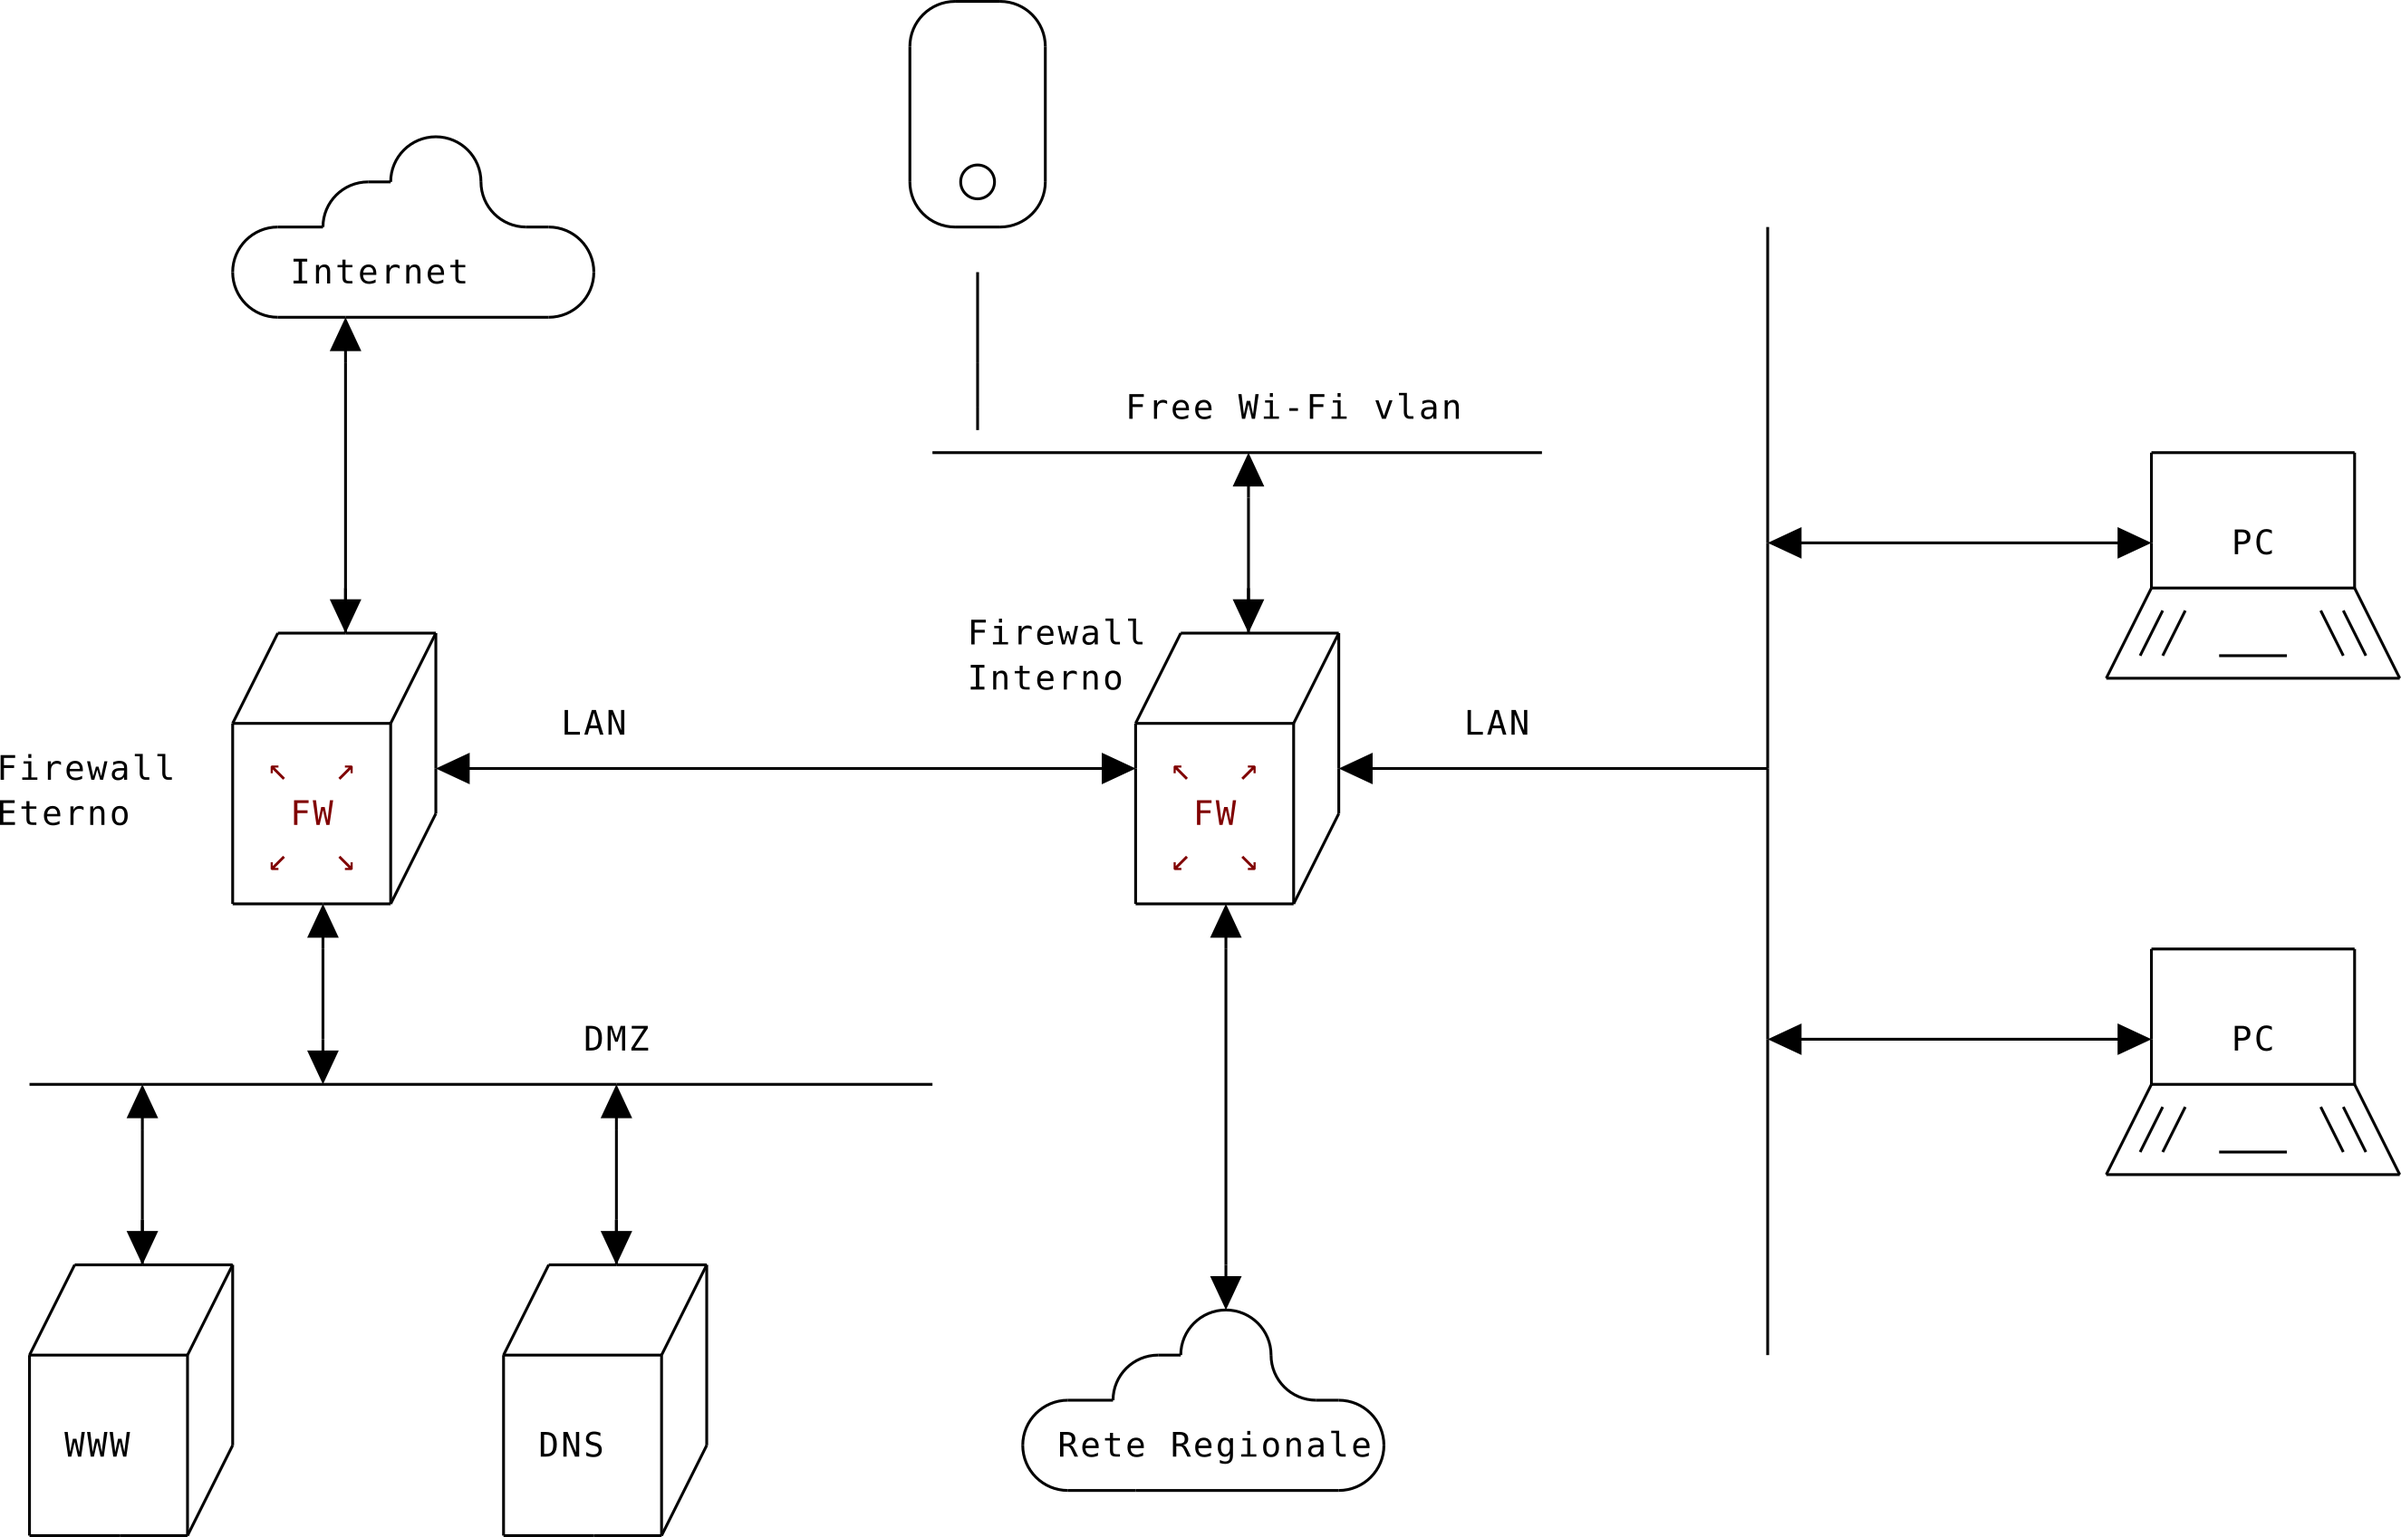
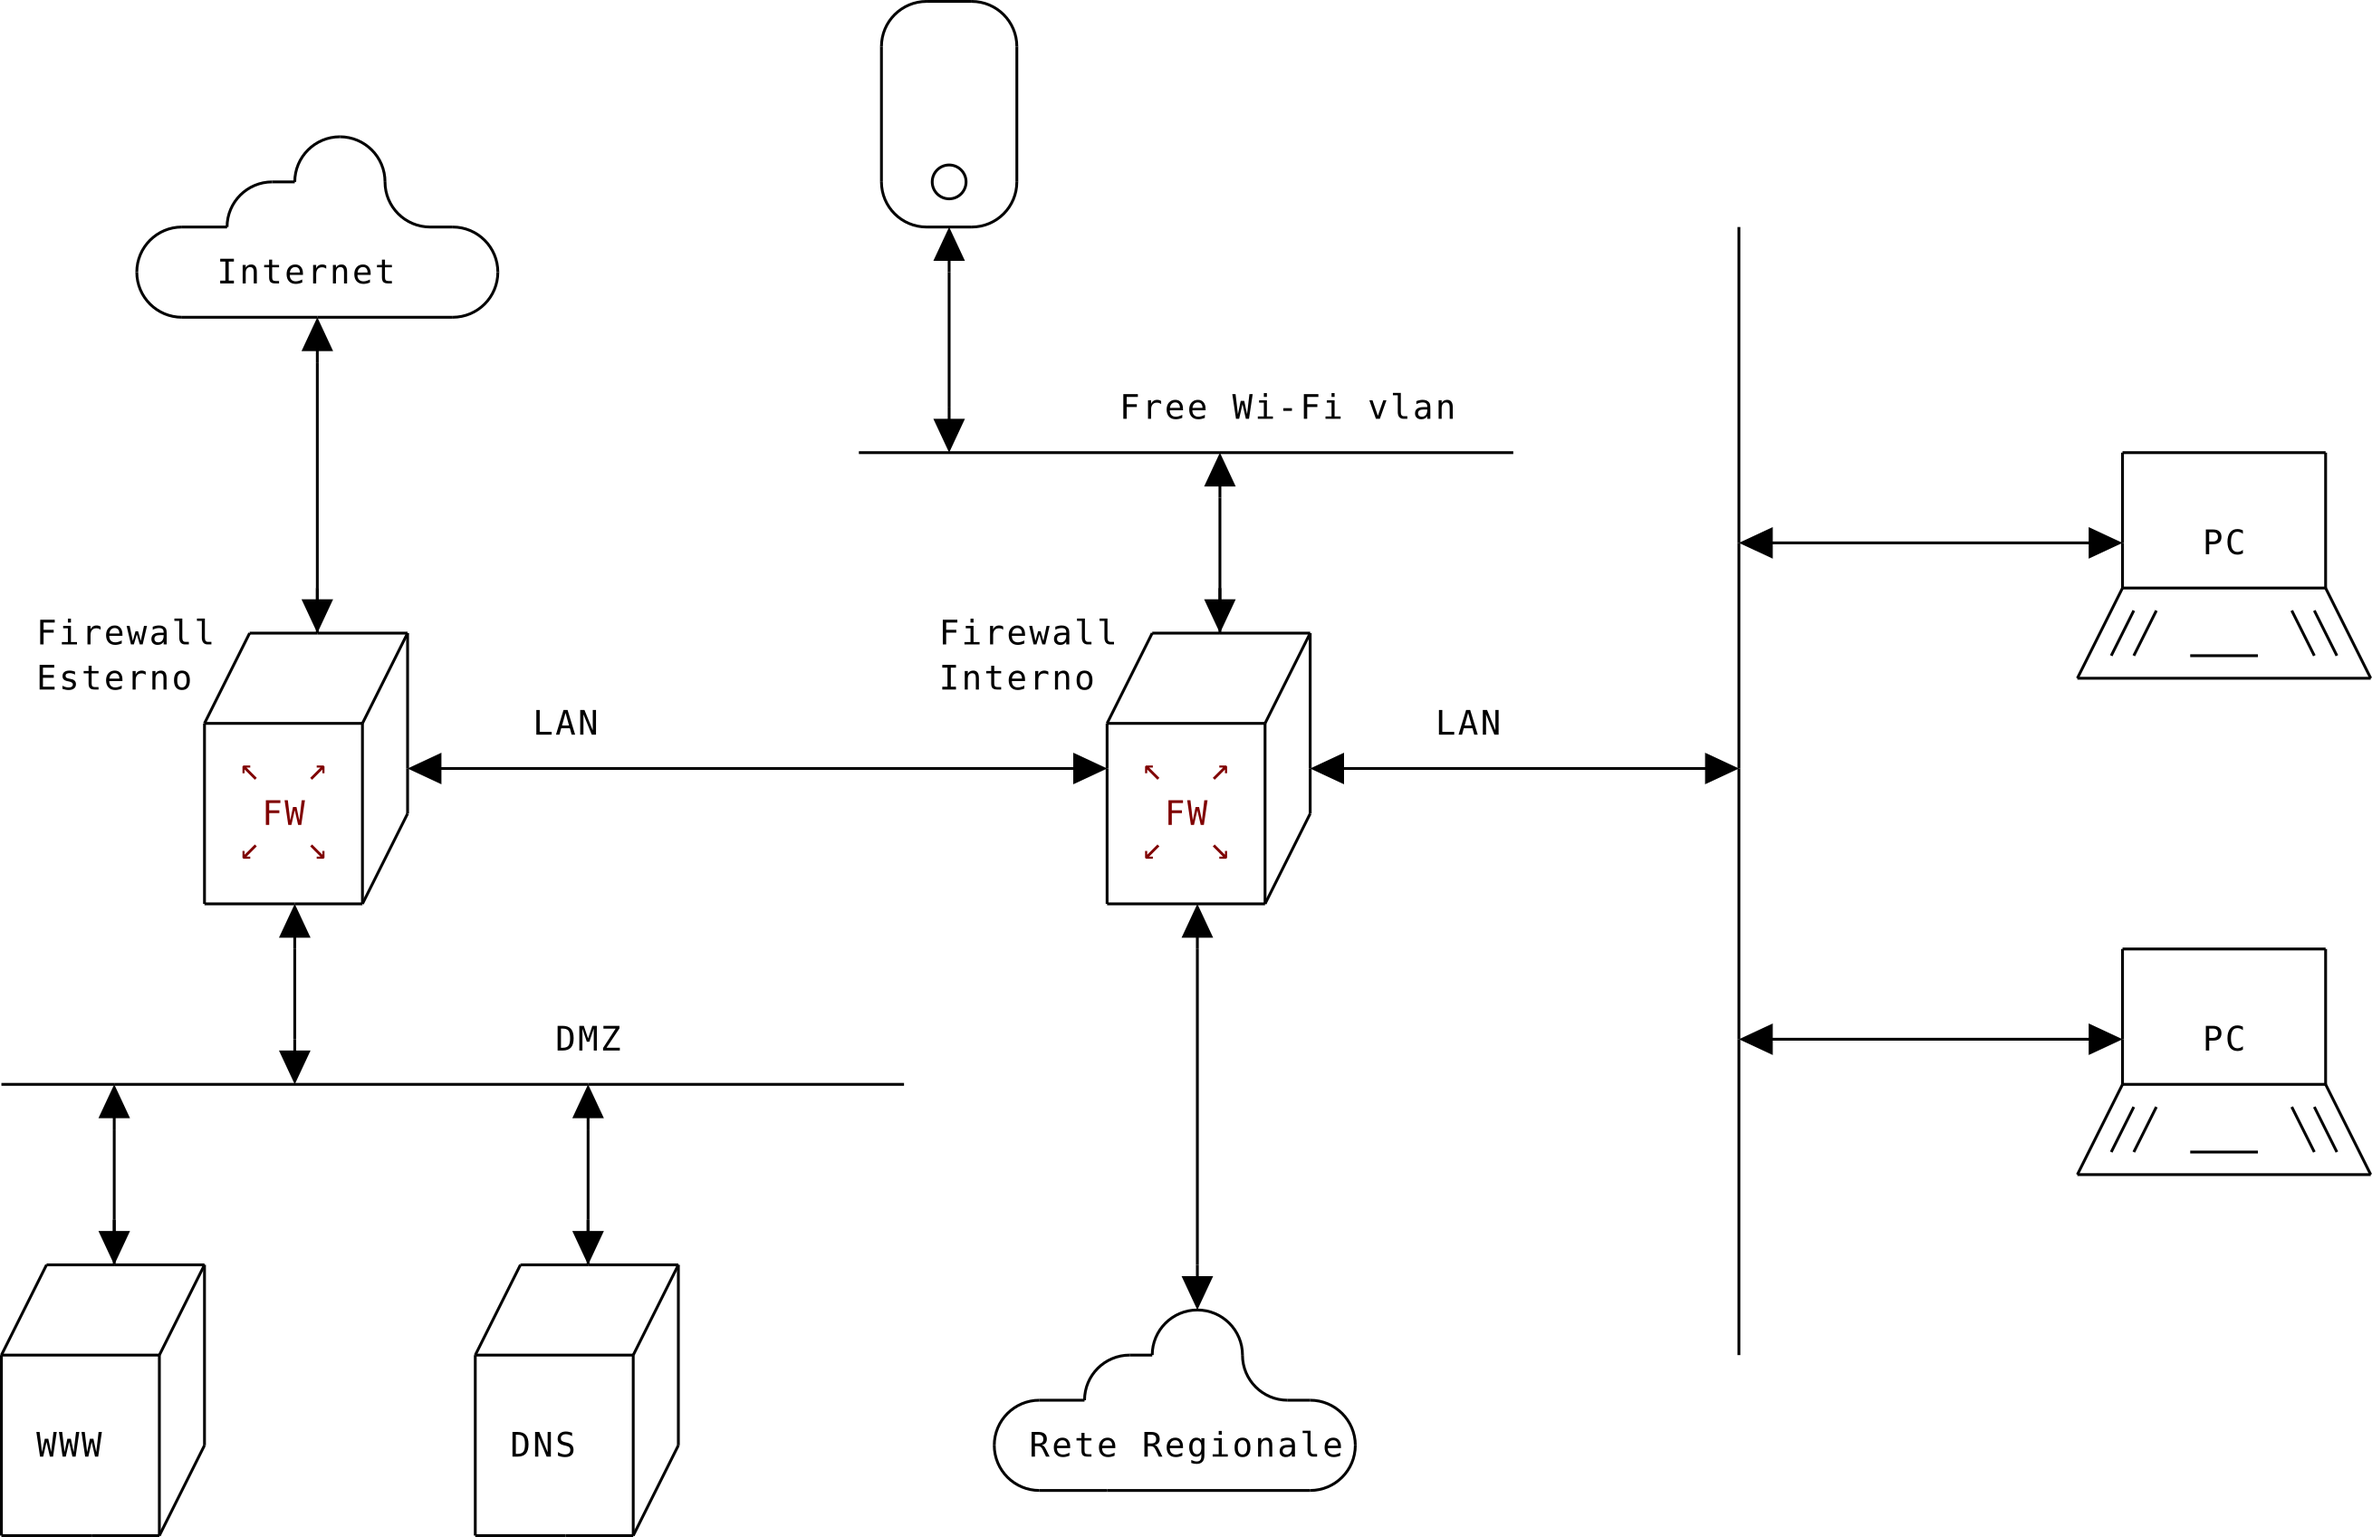
Foo

diff --git a/tesi.tex b/tesi.tex
@@ -211,14 +211,13 @@ carenze di iptables.
 
 \begin{figure}[H]
 \begin{center}
-      \includegraphics[width=\linewidth]{Netfilter-components.svg.png}
-      \caption[Componenti di Netfilter]{Componenti di Netfilter:\footnotemark}
-      \label{fig:netfilter}
+    \includegraphics[width=\linewidth]{Netfilter-components.svg.png}
+    \caption[Componenti di Netfilter]{Componenti di Netfilter:\footnotemark}
+    \label{fig:netfilter}
 \end{center}
 \end{figure}
-\footnotetext{\href{http://inai.de/images/nf-components.svg}{Sorgente} (CC BY-SA 3.0).}
-
 Dalla figura \ref{fig:netfilter} risulta evidente la maggiore complessità e
+\footnotetext{\href{http://inai.de/images/nf-components.svg}{Sorgente} (CC BY-SA 3.0).}%
 ridondanza di Xtables rispetto a nftables.  Nftables riduce il numero di linee
 di codice nel kernel riorganizzando e unificando quello che in iptables è
 replicato per i diversi protocolli.  Inoltre nftables introduce strutture
@@ -260,14 +259,14 @@ Nel tempo è cresciuto il numero di sottoreti collegate, di servizi esposti e
 di conseguenza la complessità delle regole configurate.
 
 La situazione attuale consiste di due firewall Linux, uno esterno ed uno
-interno.  Il firewall esterno regola il traffico tra internet, DMZ e
-reti locali; quello interno regole il traffico tra le reti locali e l'esterno.
+interno.  Il firewall esterno regola il traffico tra internet, DMZ e reti
+locali; quello interno regole il traffico tra le reti locali e l'esterno.
 
 \begin{figure}
 \begin{center}
-      \includegraphics[width=.8\linewidth]{net.svg.png}
-      \caption{Schema delle reti e dei due firewall}
-      \label{fig:rete}
+    \includegraphics[width=\linewidth]{net.svg.png}
+    \caption{Schema (semplificato) delle reti e dei due firewall}
+    \label{fig:rete}
 \end{center}
 \end{figure}
 In particolare sul firewall esterno sono presenti regole di tipo blacklist per
@@ -301,9 +300,10 @@ il pacchetto resta inalterato.} e successivamente una regola nella catena di
 inoltro devia il pacchetto verso il sito del Captive Portal che propone la
 registrazione.
 Abbiamo quasi 100 nuove registrazioni al giorno e sono 100.000 i dispositivi
-che hanno usufruito del servizio a partire dal 2012.
-Non avendo specificato termini di scadenza la lista di mac address non
-decresce mai, ad esempio al momento sono presenti oltre 23 mila indirizzi ethernet.
+che hanno usufruito del servizio a partire dal 2012.  Non avendo specificato
+termini di scadenza la lista di mac address non decresce mai, ad esempio al
+momento sono presenti oltre 23 mila indirizzi ethernet.  Di tanto in tanto si
+eseguono interventi di cancellazione delle autorizzazioni pi\`u vecchie.
 
 \section{Problemi dell'infrastruttura}
 
@@ -312,7 +312,7 @@ indirizzi e le perché proprio la gestione di così tante regole ha, durante il
 2017, portato alla luce alcune carenze della soluzione implementata.
 
 Inizialmente, infatti, per ogni indirizzo era prevista una regola\footnote{Di
-tipo {\em REJECT} per le blacklist e di tipo {\em RETURN} per la gestione del
+tipo {\em REJECT} per le blacklist e di tipo {\em RETURN} per la gestione della rete
 wifi free.}, ciò significa che prima di poter classificare ogni singolo
 pacchetto \`e necessario scorrere una per una migliaia se non decine di
 migliaia di regole (ovviamente non subiscono questa verifica i pacchetti
@@ -399,47 +399,19 @@ ip saddr @testsources nftrace set 1 comment "DEBUG: XXX remove in production"
     \caption{Schema del flusso di pacchetti in ftables}
     \label{fig:flow}
 \end{figure}
-
-%\begin{Verbatim}[fontsize=\scriptsize, fontseries=b, fontfamily=courier, samepage=false]
-%    {NETWORK}
-%        |
-%        |
-%        v                   
-%    (ingress)               .----> <Local Process> ----.
-%        |                   |                          |
-%        |                   |                          |
-%        |                   |                          |
-%   (prerouting)             |                          |
-%        |                   |                          |
-%        |                   |                          |
-%        v                   |                          v
-%[Routing Decision] ----> (input)                   (output) ----> [Routing Decision]
-%        |                                                                 |
-%        |                                                                 |
-%        |                                               .-----------------'
-%        |                                               |
-%        |                                               v
-%        '------------------------> (forward) ----> (postrouting)
-%                                                        |
-%                                                        |
-%                                                        |
-%                                                        v
-%                                                    {NETWORK}
-%\end{Verbatim}
-
 Lo schema rappresenta i possibili percorsi di un pacchetto: l'asterisco
 evidenzia gli hook ai quali si possono associare le catene contenenti le
 regole:
 \begin{itemize}
-  \item ingress
-  \item prerouting
-  \item input
-  \item output
-  \item forwarding
-  \item output
-  \item postrouting
+    \item ingress
+    \item prerouting
+    \item input
+    \item output
+    \item forwarding
+    \item output
+    \item postrouting
 \end{itemize}
-\noindent La possibilit\`a di intervenire precocemente sul pacchetto, appena
+La possibilit\`a di intervenire precocemente sul pacchetto, appena
 il driver dell scheda di rete lo passa al livello superiore, \`e fondamentale
 per gestire attacchi tipo DDoS o comunque per scartare traffico non gradito
 senza appesantire il lavoro del kernel: questo \`e reso possibile dall'hook
@@ -515,12 +487,11 @@ Il tracing viene attivato impostando una metainformazione relativa al pacchetto:
 Dal momento che transita dalla catena di forward, ogni pacchetto destinato ad un DNS server riporter\`a
  i dettagli del suo percorso attraverso l'insieme di regole.
 Per osservare il resoconto del viaggio del pacchetto \`e necessario attivare il
-monitor da console e rimanere in ascolto:
-\begin{lstlisting}[style=customb]
-# nft monitor
-\end{lstlisting}
+monitor da console: i pacchetti con nftrace settato invieranno al monitor le informazioni
+con tutti i dettagli relativi al percorso seguito.
 Questo ad esempio \`e il percorso di un pacchetto destinato ad un DNS server:
 \begin{lstlisting}[style=customb]
+# nft monitor
 trace id e7d627c0 ip captive forward packet: iif "eth1" oif "eth0" \
       ether saddr 00:16:3e:05:12:55 ether daddr 00:16:3e:35:e7:80 \
       ip saddr 193.168.100.159 ip daddr 8.8.8.8 \
@@ -532,25 +503,6 @@ trace id e7d627c0 ip captive forward verdict continue
 trace id e7d627c0 ip captive forward
 trace id e7d627c0 ip captive nat_postrouting verdict continue
 trace id e7d627c0 ip captive nat_postrouting
-\end{lstlisting}
-Per osservare il resoconto del viaggio del pacchetto \`e necessario attivare il
-monitor da console e rimanere in ascolto:
-\begin{lstlisting}[style=customb]
-# nft monitor
-nft --debug=netlink add rule ip foo bar ct state new \
- ip saddr 192.168.0.0-192.168.0.13 tcp dport 22 accept
- ip foo bar
- [ ct load state => reg 1 ]
- [ bitwise reg 1 = (reg=1 & 0x00000008 ) ^ 0x00000000 ]
- [ cmp neq reg 1 0x00000000 ]
- [ payload load 4b @ network header + 12 => reg 1 ]
- [ cmp gte reg 1 0x0000a8c0 ]
- [ cmp lte reg 1 0x0d00a8c0 ]
- [ payload load 1b @ network header + 9 => reg 1 ]
- [ cmp eq reg 1 0x00000006 ]
- [ payload load 2b @ transport header + 2 => reg 1 ]
- [ cmp eq reg 1 0x00001600 ]
- [ immediate reg 0 accept ]
 \end{lstlisting}
 \chapter{Migrazione del Captive Portal}
 
@@ -637,10 +589,13 @@ captive\_ok\footnote{In questo caso usiamo la sintassi da linea di comando invec
 \end{lstlisting}
 
 \section{Autorizzazioni temporizzate}
+
 Possiamo ora sfruttare funzionalità spcifiche di nftables.  Vogliamo che
 l'autorizzazione all'uso della rete wifi scada dopo 15 giorni.  Per fare ciò
-dobbiamo modificare la definizione del set, alla riga 5 del listato,
-introducendo un timeout \ref{lst:nftables-wifi} in questo modo:
+dobbiamo modificare la definizione del set, alla riga 5 del listato
+\ref{lst:nftables-wifi}, introducendo un timeout\footnote{Al momento \`e aperto
+un bug report perch\'e non si riescono ad impostare timeout > 24d20h31m23s:
+\url{https://bugzilla.netfilter.org/show\_bug.cgi?id=1237}} in questo modo:
 \begin{lstlisting}[style=customb]
 set captive_ok { type ether_addr\; timeout 15d\; }
 \end{lstlisting}
@@ -744,8 +699,8 @@ risulta anche semplice da implementare in quanto anche in questo caso si integra
 linguaggio di definizione delle regole.
 
 Il caso pi\`u semplice consiste nel limitare la banda occupata globalmente
-dalla rete wifi (facciamo sempre riferimento allo script
-\ref{lst:nftables-wifi}):
+dalla rete wifi (facciamo sempre riferimento allo script \ref{lst:nftables-wifi}):
+
 \begin{lstlisting}[style=customc,firstnumber=18]
     chain forward {
         type filter hook forward priority 0; policy accept;
@@ -813,4 +768,22 @@ In questa configurazione le prestazioni della rete sono state valutate con iperf
   \end{table}
 \end{center}
 
+Volendo 
+\begin{lstlisting}[style=customb]
+# nft monitor
+nft --debug=netlink add rule ip foo bar ct state new \
+ ip saddr 192.168.0.0-192.168.0.13 tcp dport 22 accept
+ ip foo bar
+ [ ct load state => reg 1 ]
+ [ bitwise reg 1 = (reg=1 & 0x00000008 ) ^ 0x00000000 ]
+ [ cmp neq reg 1 0x00000000 ]
+ [ payload load 4b @ network header + 12 => reg 1 ]
+ [ cmp gte reg 1 0x0000a8c0 ]
+ [ cmp lte reg 1 0x0d00a8c0 ]
+ [ payload load 1b @ network header + 9 => reg 1 ]
+ [ cmp eq reg 1 0x00000006 ]
+ [ payload load 2b @ transport header + 2 => reg 1 ]
+ [ cmp eq reg 1 0x00001600 ]
+ [ immediate reg 0 accept ]
+\end{lstlisting}
 %\begin{lstlisting}[style=customb]

diff --git a/debe.tex b/debe.tex
@@ -65,6 +65,7 @@ headsepline, % Uncomment to get a line under the header
 \lstdefinestyle{customc}{
   basicstyle=\footnotesize\ttfamily,
   numbers=left,
+  numberstyle=\tt\tiny,
   showspaces=false,
   columns=fullflexible,
   captionpos=t,
